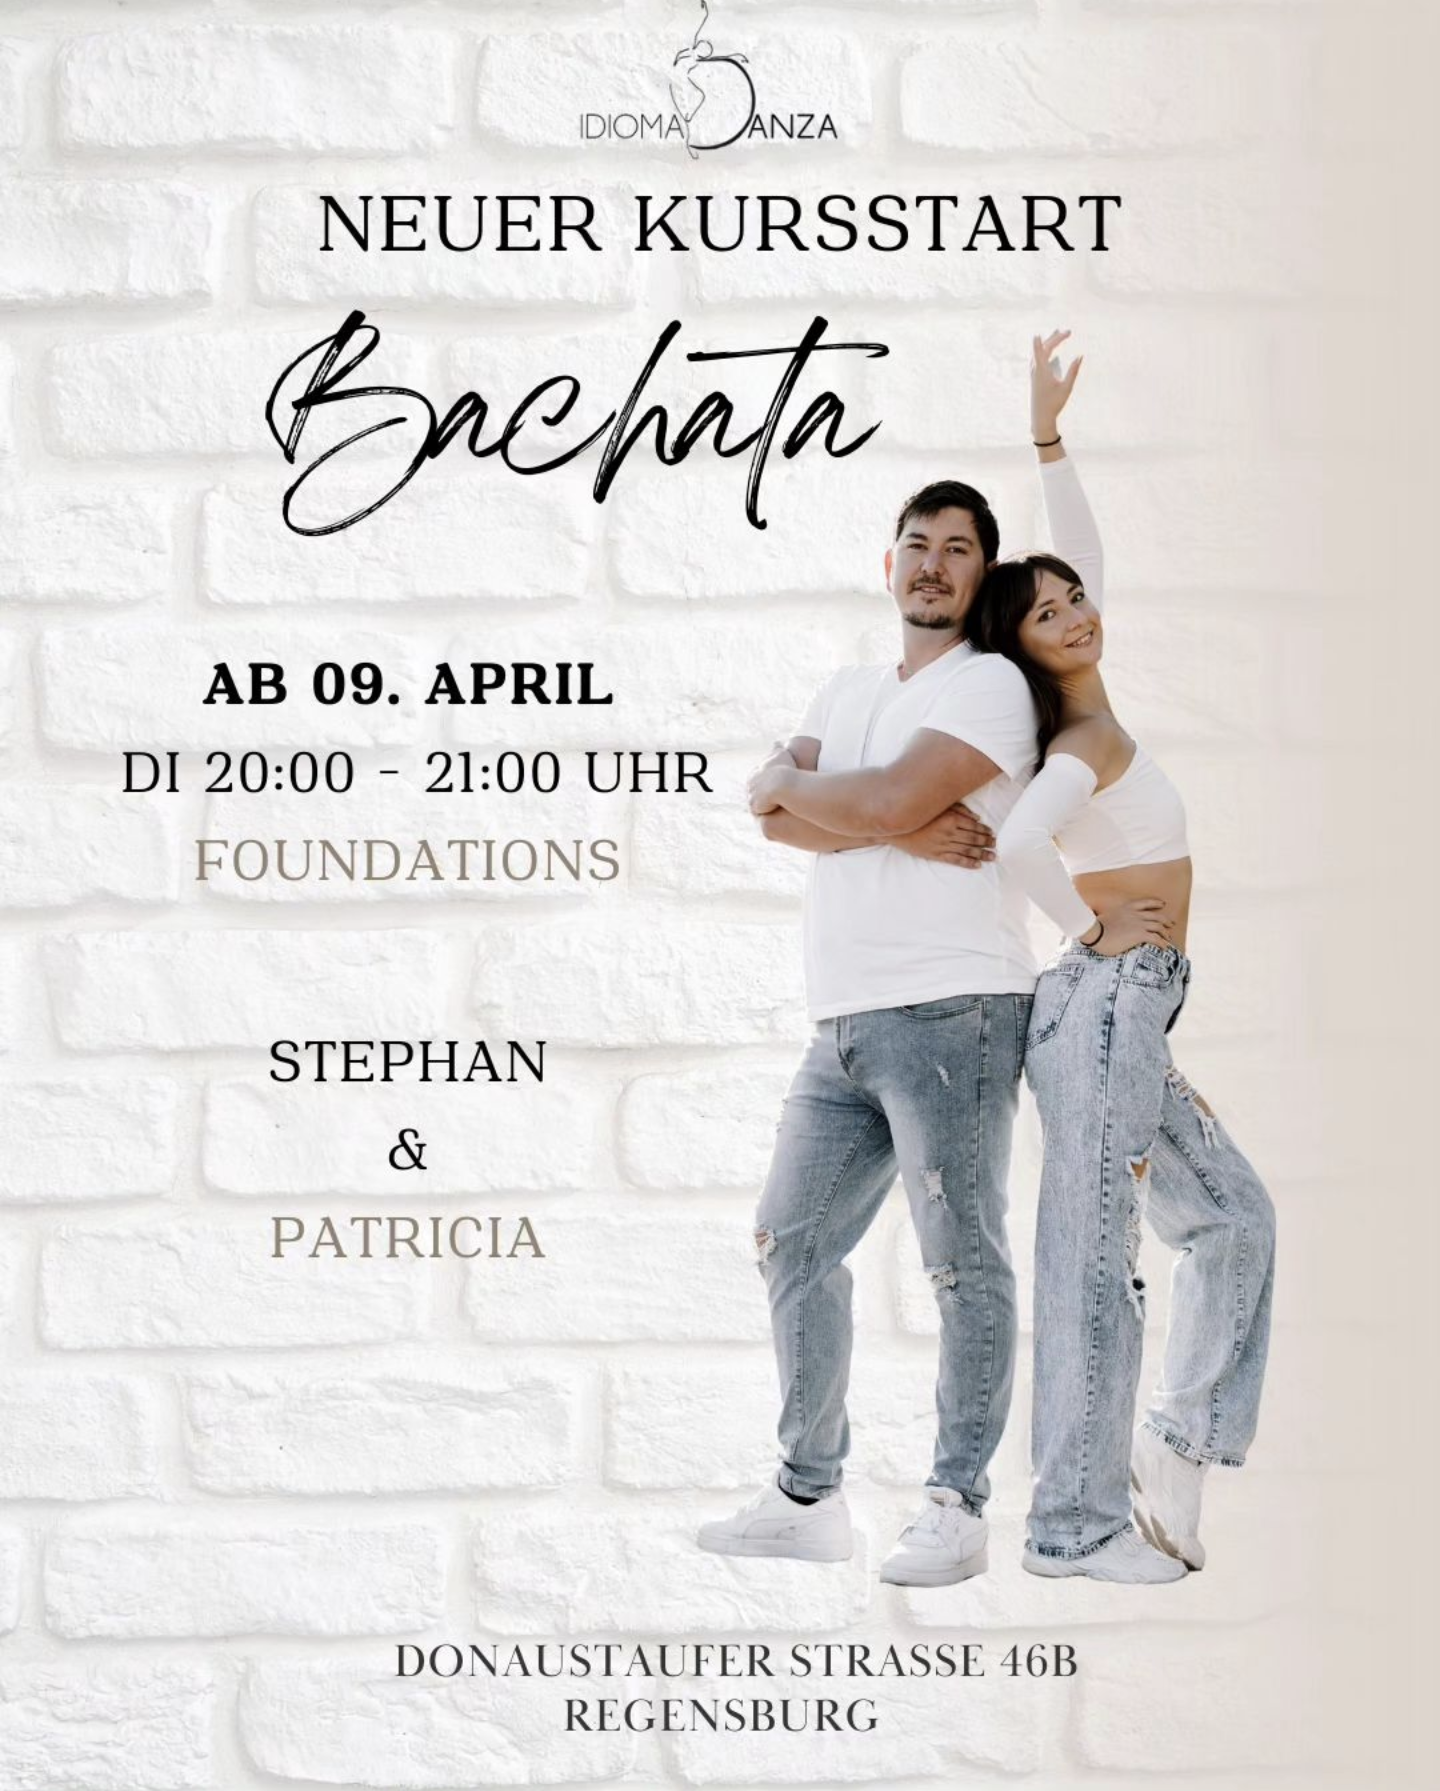
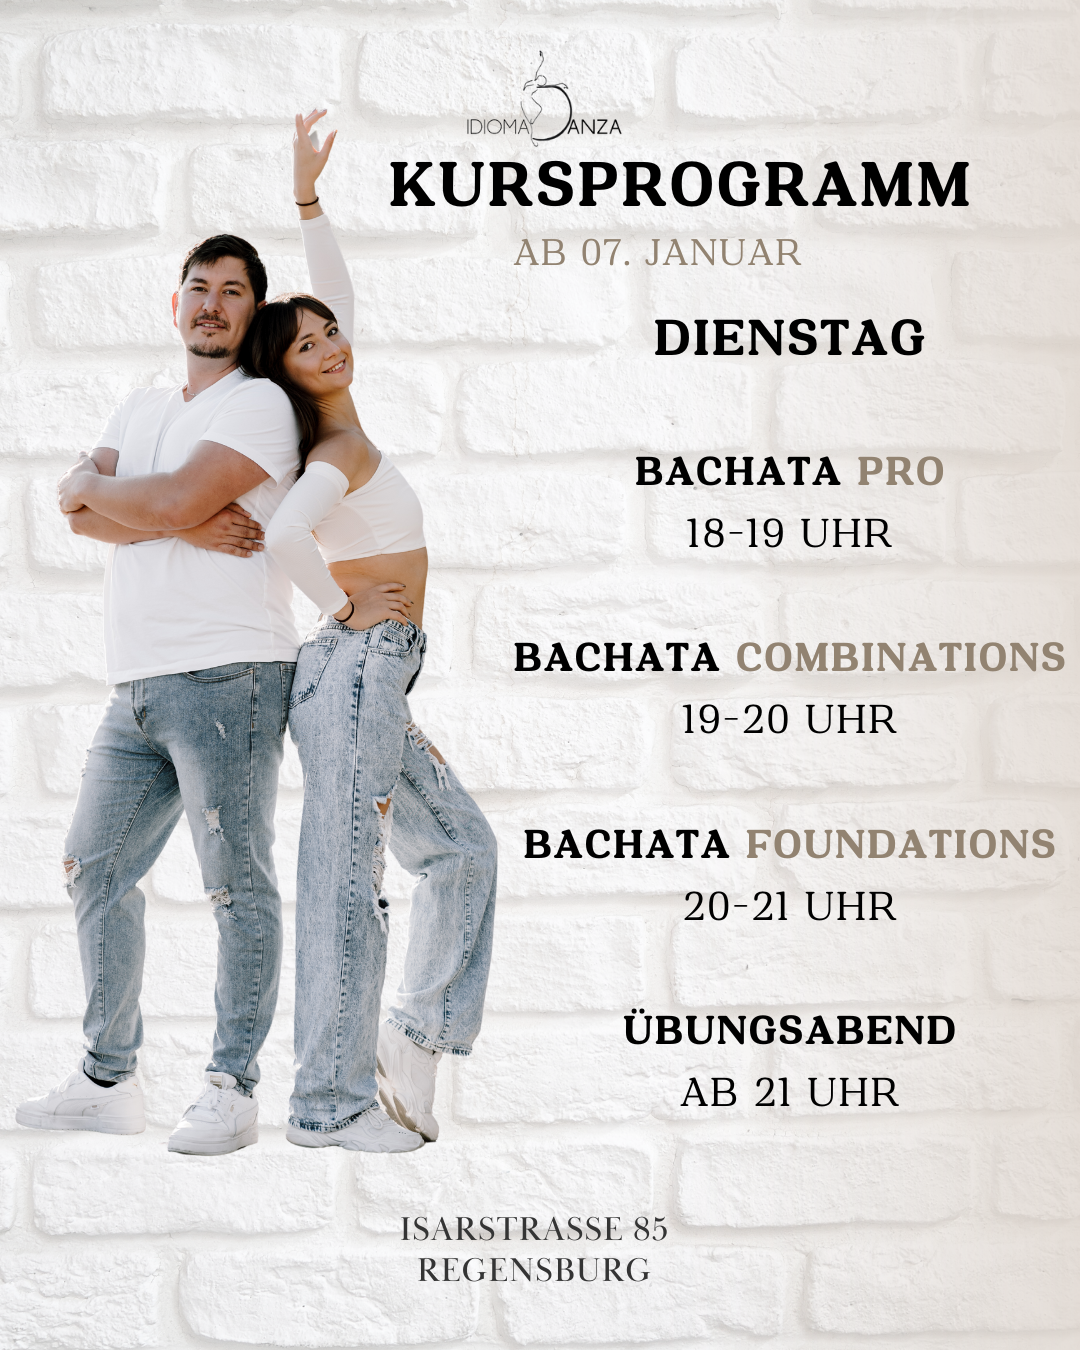
Jan25 (#15)
* safe current state

* update jan25

---------

diff --git a/index.html b/index.html
@@ -194,10 +194,10 @@
                   </li>
                 </ul>
                 <p>News:</p>
-                <p>Bachata Foundations - Dienstag 20 Uhr im Chandao.</p>
-                <p>Bachata Combinations - Dienstag 19 Uhr im Chandao.</p>
-                <p>Neuer UrbanKiz Foundations Kurs ab MI 08.05. 19 Uhr im Raum für Engagement</p>
-                <p>Neuer Salsa on2 Kurs ab MI 08.05. 20 Uhr im Raum für Engagement</p>
+                <p>Bachata Pro - Dienstag 18 Uhr Isarstr. 85.</p>
+                <p>Bachata Combinations - Dienstag 19 Uhr Isarstr. 85.</p>
+                <p>Bachata Foundations - Dienstag 20 Uhr Isarstr. 85.</p>
+                <p>Neuer Styling Kurs ab MI 05.02. 19 Uhr im Raum für Engagement</p>
               </div>
             </div>
           </div>
@@ -249,7 +249,7 @@
               <div class="team-content text-center">
                 <h4>Patricia</h4>
                 <p>Bachata</p>
-
+                <p>Salsa</p>
               </div>
             </div>
           </div>
@@ -279,6 +279,7 @@
               <div class="team-content text-center">
                 <h4>Stephan</h4>
                 <p>Bachata</p>
+                <p>Salsa</p>
               </div>
             </div>
           </div>
@@ -287,7 +288,7 @@
             <div class="single-team-member">
               <div class="team-img">
                 <a href="#">
-                  <img src="assets/img/team/3.jpg" alt="">
+                  <img src="" alt="">
                 </a>
                 <div class="team-social-icon text-center">
                   <ul>
@@ -306,8 +307,8 @@
                 </div>
               </div>
               <div class="team-content text-center">
-                <h4>Marcus</h4>
-                <p>UrbanKiz</p>
+                <h4>Nalini</h4>
+                <p>Bachata</p>
               </div>
             </div>
           </div>
@@ -316,7 +317,7 @@
             <div class="single-team-member">
               <div class="team-img">
                 <a href="#">
-                  <img src="assets/img/team/4.jpg" alt="">
+                  <img src="" alt="">
                 </a>
                 <div class="team-social-icon text-center">
                   <ul>
@@ -335,12 +336,14 @@
                 </div>
               </div>
               <div class="team-content text-center">
-                <h4>Marlene</h4>
-                <p>UrbanKiz</p>
+                <h4>Chris</h4>
+                <p>Bachata</p>
               </div>
             </div>
           </div>
           <!-- End column -->
+
+          
         </div>
       </div>
     </div><!-- End Team Section -->
@@ -506,8 +509,7 @@
         <div class="row">
           <div class="col-md-4 col-sm-4 col-xs-12">
             <div class="pri_table_list">
-              <h3>Foundations <br /> <span>39€ / Monat</span>
-              <br /> <span>(19€ / Monat für Studierende)</span></h3>
+              <h3>Alle Kurse <br /> <span>39€ / Monat</span></h3>
               <ol>
                 <li class="check"><i class="bi bi-check"></i><span>Nehme an allen Level 1 Kursen teil</span></li>
                 <li class="check"><i class="bi bi-check"></i><span>Nehme an einem Level 2 Kurs teil</span></li>
@@ -518,8 +520,7 @@
 
           <div class="col-md-4 col-sm-4 col-xs-12">
             <div class="pri_table_list">
-              <h3>All you can dance <br /> <span>59€ / Monat</span>
-              <br /> <span>(29€ / Monat für Studierende)</span></h3>
+              <h3>Für Studierende <br /> <span>19€ / Monat</span></h3>
               <ol>
                 <li class="check"><i class="bi bi-check"></i><span>Nehme an allen Level 1 Kursen teil</span></li>
                 <li class="check"><i class="bi bi-check"></i><span>Nehme an allen Level 2 Kursen teil</span></li>
@@ -564,7 +565,7 @@
                   <i class="bi bi-phone"></i>
                   <p>
                     +49 (0) 15678 659226<br>
-                    <span>Freitag (13-15)</span>
+                    <span>Freitag (14-15)</span>
                   </p>
                 </div>
               </div>
@@ -588,17 +589,17 @@
                 <div class="single-icon">
                   <i class="bi bi-geo-alt"></i>
                   <p>
-                    Idiomadanza im Chandao:<br>
-                    Donaustauferstr. 43b<br>
-                    <span>93053 Regensburg</span>
+                    Idiomadanza im SV Fortuna:<br>
+                    Isarstr. 85<br>
+                    <span>93057 Regensburg</span>
                   </p>
                 </div>
                 <div class="single-icon">
                   <i class="bi bi-geo-alt"></i>
                   <p>
                     Idiomadanza im Raum für Engagement:<br>
-                    St. - Kassians - Platz 5<br>
-                    <span>93047 Regensburg</span>
+                    St. Katharinen Platz 5<br>
+                    <span>93059 Regensburg</span>
                   </p>
                 </div>
               </div>

diff --git a/impressum.html b/impressum.html
@@ -64,10 +64,10 @@
                                     <h4 class="sec-head">Idiomadanza e.V.</h4>
                                 </a>
                                 <p>
-                                    Reichsstiftstr. 18
+                                    Isarstr. 85
                                 </p>
                                 <p>
-                                    93055 Regensburg
+                                    93057 Regensburg
                                 </p>
                                 <p>
                                     tel: +49 (0) 15678 659226
